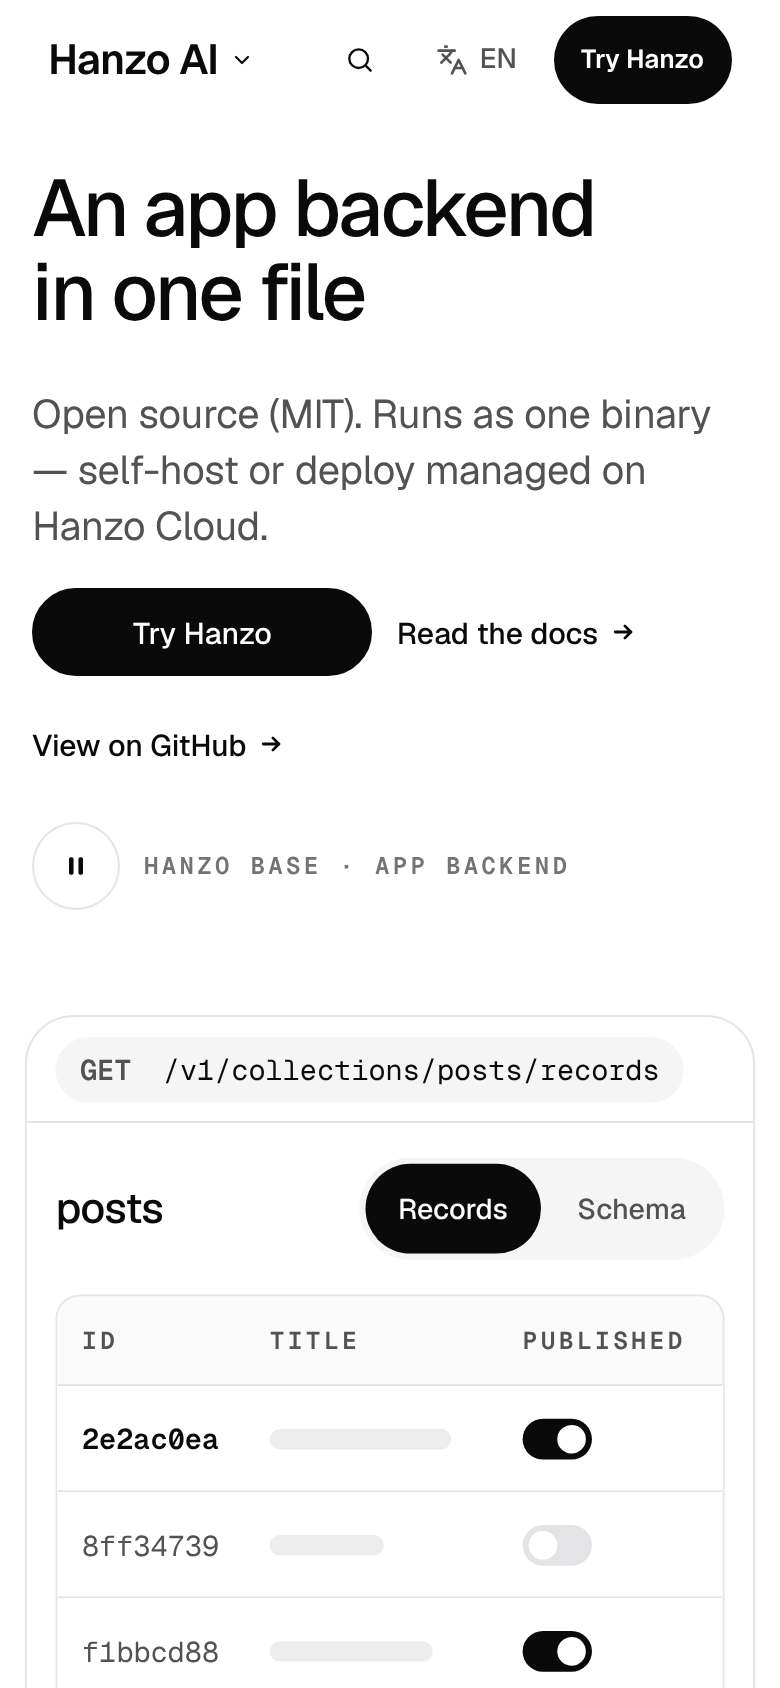
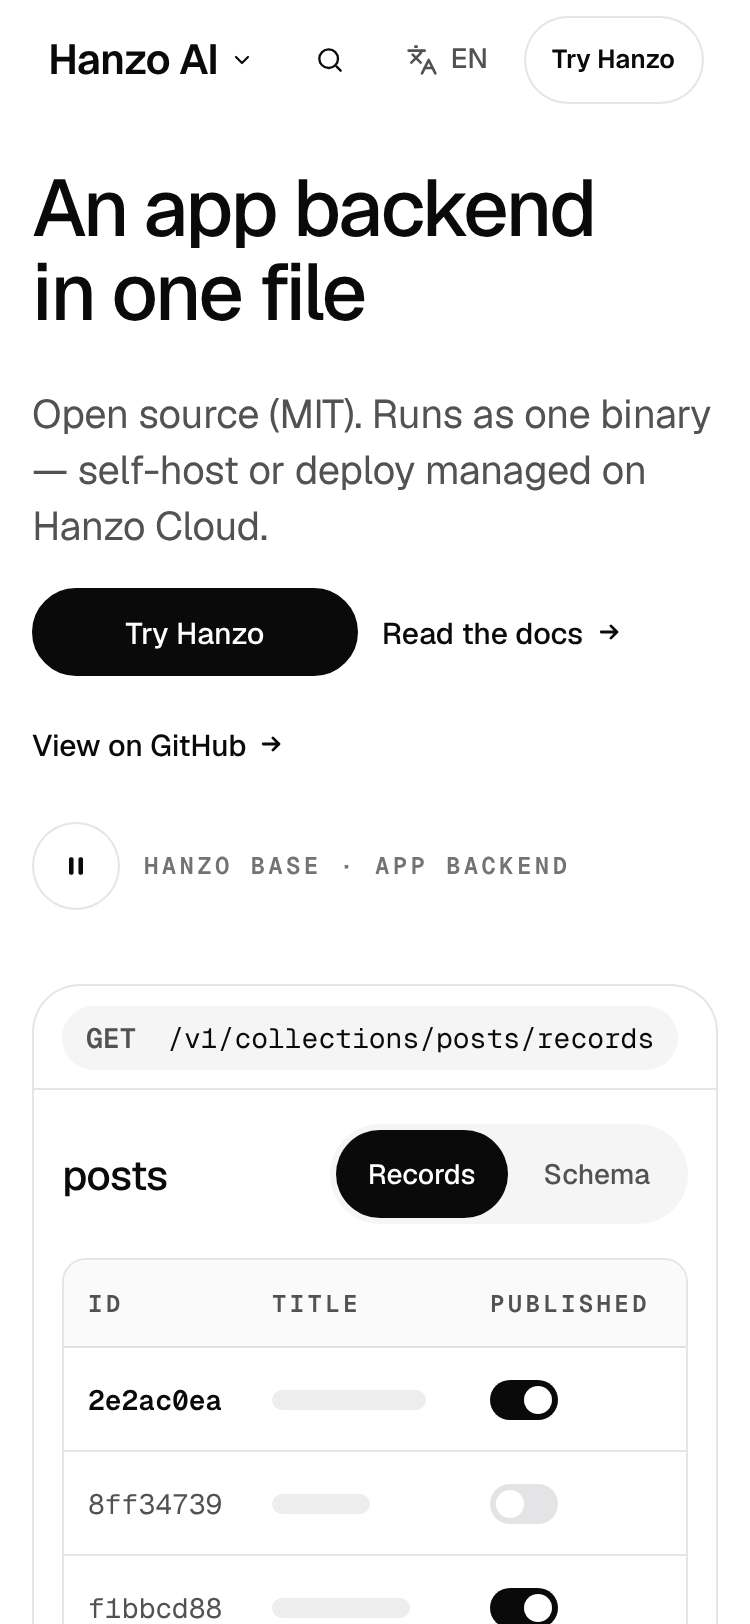
base: Ready — phone map zoom ends with the collection card whole (was cut mid-word); copycheck missing 0 of 47; gallery proof
Claude-Session: https://claude.ai/code/session_01P5YBdvdmGVS8p6FhaTwzh4

diff --git a/components/pages/cloud/Base.jsx b/components/pages/cloud/Base.jsx
@@ -184,7 +184,8 @@ function ZoomMap({ name, setName }) {
       const ox = r.x + (r.w - L.W * s0) / 2, oy = r.y + (r.h - L.H * s0) / 2;
       const c = L.n.coll;
       const fc = [c[0] + c[2] / 2, c[1] + c[3] / 2];
-      geo.current = { s0, s1: Math.max(sw / c[2], sh / c[3]) * 1.04, fc, f0: [ox + fc[0] * s0, oy + fc[1] * s0], f1: [sw / 2, sh / 2] };
+      // wide: the card fills the stage (cover); phones: it fills the width and stays whole, so no word is cut mid-zoom
+      geo.current = { s0, s1: wide ? Math.max(sw / c[2], sh / c[3]) * 1.04 : Math.min((sw - 24) / c[2], (sh - 32) / c[3]), fc, f0: [ox + fc[0] * s0, oy + fc[1] * s0], f1: [sw / 2, sh / 2] };
       paint(p.get());
       map.current?.setAttribute('data-ready', '');
     };

diff --git a/docs/review/base.md b/docs/review/base.md
@@ -3,6 +3,7 @@
 Reviewed 2026-11-07, walked moving at 1470x801 and 375x812 (wheel steps of 400px every 700ms, rest pairs on the first screen and mid-page, hover/press/type/open/copy/Esc/Tab crawl). Proof: `docs/review/base/` (desktop-first.jpg, phone-first.jpg, desktop-walk.jpg, phone-walk.jpg).
 
 Verdict: 7.5/10
+Ready: 8 Nov, held up next to /api and /affiliate (James's new bar, no score). The first record lands at 0.6 s, author cells show the users record they point at, the new record's title fills in as it lands, the deploy console carries Hanzo's own caption again, and on phones the map's zoom ends with the collection card whole across the width (it overshot and cut 'posts' mid-word). copycheck missing 0 of 47; taste/unique OK; 0 console errors (also under reduced motion), no overflow at 1470 and 375. Usable: declare a collection, run the binary, deploy, with Hanzo's docs and GitHub links. Left alone: title cells are still bars (no invented titles under the copy rule).
 
 First complaint: "It's clean, but it looks like a wireframe. Every row and every card is grey placeholder bars, and for the first three seconds the admin just sits there. Make it feel like a real product that's alive the moment I land."
 
